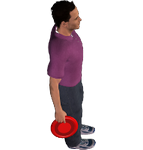
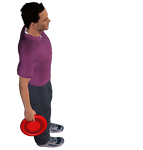
-ok last shot  rif. GameManager timeUp() -?	aggiungere intelligenza -ok	aggiustare punti -ok	controllare restart ritornando al menù (problema va troppo veloce) -?	modificare immagine lancio 	controllata generale

diff --git a/src/it/unical/mat/igpe/graphics/ImageProvider.java b/src/it/unical/mat/igpe/graphics/ImageProvider.java
@@ -52,7 +52,7 @@ public class ImageProvider {
 	private  Image[] myPlayerUpLeft = new Image[4];
 	private  Image[] myPlayerDownRight = new Image[4];
 	private  Image[] myPlayerDownLeft = new Image[4];
-	private  Image[] myPlayerShot = new Image[4];
+	private  Image[] myPlayerShot = new Image[15];/////////////////////////////////////////////////////////
 	private  Image myPlayerRightMotionLess;
 	private  Image myPlayerLeftMotionLess;
 	
@@ -460,10 +460,26 @@ public class ImageProvider {
     	  comPlayerUpLeft[3] = tk.getImage(comPlayerUpLeftPath+"upLeft_13.png");
     	  
       	//shot image
+//    	  myPlayerShot[0] = tk.getImage(myPlayerShotPath+"shot_0001.png");
+//    	  myPlayerShot[1] = tk.getImage(myPlayerShotPath+"shot_0009.png");
+//    	  myPlayerShot[2] = tk.getImage(myPlayerShotPath+"shot_0017.png");
+//    	  myPlayerShot[3] = tk.getImage(myPlayerShotPath+"shot_0025.png");
     	  myPlayerShot[0] = tk.getImage(myPlayerShotPath+"shot_0001.png");
-    	  myPlayerShot[1] = tk.getImage(myPlayerShotPath+"shot_0009.png");
-    	  myPlayerShot[2] = tk.getImage(myPlayerShotPath+"shot_0017.png");
-    	  myPlayerShot[3] = tk.getImage(myPlayerShotPath+"shot_0025.png");
+    	  myPlayerShot[1] = tk.getImage(myPlayerShotPath+"shot_0003.png");
+    	  myPlayerShot[2] = tk.getImage(myPlayerShotPath+"shot_0005.png");
+    	  myPlayerShot[3] = tk.getImage(myPlayerShotPath+"shot_0007.png");
+    	  myPlayerShot[4] = tk.getImage(myPlayerShotPath+"shot_0009.png");
+    	  myPlayerShot[5] = tk.getImage(myPlayerShotPath+"shot_0011.png");
+    	  myPlayerShot[6] = tk.getImage(myPlayerShotPath+"shot_0013.png");
+    	  myPlayerShot[7] = tk.getImage(myPlayerShotPath+"shot_0015.png");
+    	  myPlayerShot[8] = tk.getImage(myPlayerShotPath+"shot_0017.png");
+    	  myPlayerShot[9] = tk.getImage(myPlayerShotPath+"shot_0019.png");
+    	  myPlayerShot[10] = tk.getImage(myPlayerShotPath+"shot_0021.png");
+    	  myPlayerShot[11] = tk.getImage(myPlayerShotPath+"shot_0023.png");
+    	  myPlayerShot[12] = tk.getImage(myPlayerShotPath+"shot_0025.png");
+    	  myPlayerShot[13] = tk.getImage(myPlayerShotPath+"shot_0027.png");
+    	  myPlayerShot[14] = tk.getImage(myPlayerShotPath+"shot_0029.png");
+    	  
     	  comPlayerShot[0] = tk.getImage(comPlayerShotPath+"shot_0001.png");
     	  comPlayerShot[1] = tk.getImage(comPlayerShotPath+"shot_0009.png");
     	  comPlayerShot[2] = tk.getImage(comPlayerShotPath+"shot_0017.png");
@@ -926,10 +942,26 @@ public class ImageProvider {
 	  	  comPlayerUpLeft[3] = tk.getImage(comPlayerUpLeftPath+"upLeft_13.png");
 	  	  
 	    	//shot image
-	  	  myPlayerShot[0] = tk.getImage(myPlayerShotPath+"shot_0001.png");
-	  	  myPlayerShot[1] = tk.getImage(myPlayerShotPath+"shot_0009.png");
-	  	  myPlayerShot[2] = tk.getImage(myPlayerShotPath+"shot_0017.png");
-	  	  myPlayerShot[3] = tk.getImage(myPlayerShotPath+"shot_0025.png");
+//	  	  myPlayerShot[0] = tk.getImage(myPlayerShotPath+"shot_0001.png");
+//	  	  myPlayerShot[1] = tk.getImage(myPlayerShotPath+"shot_0009.png");
+//	  	  myPlayerShot[2] = tk.getImage(myPlayerShotPath+"shot_0017.png");
+//	  	  myPlayerShot[3] = tk.getImage(myPlayerShotPath+"shot_0025.png");
+    	  myPlayerShot[0] = tk.getImage(myPlayerShotPath+"shot_0001.png");
+    	  myPlayerShot[1] = tk.getImage(myPlayerShotPath+"shot_0003.png");
+    	  myPlayerShot[2] = tk.getImage(myPlayerShotPath+"shot_0005.png");
+    	  myPlayerShot[3] = tk.getImage(myPlayerShotPath+"shot_0007.png");
+    	  myPlayerShot[4] = tk.getImage(myPlayerShotPath+"shot_0009.png");
+    	  myPlayerShot[5] = tk.getImage(myPlayerShotPath+"shot_0011.png");
+    	  myPlayerShot[6] = tk.getImage(myPlayerShotPath+"shot_0013.png");
+    	  myPlayerShot[7] = tk.getImage(myPlayerShotPath+"shot_0015.png");
+    	  myPlayerShot[8] = tk.getImage(myPlayerShotPath+"shot_0017.png");
+    	  myPlayerShot[9] = tk.getImage(myPlayerShotPath+"shot_0019.png");
+    	  myPlayerShot[10] = tk.getImage(myPlayerShotPath+"shot_0021.png");
+    	  myPlayerShot[11] = tk.getImage(myPlayerShotPath+"shot_0023.png");
+    	  myPlayerShot[12] = tk.getImage(myPlayerShotPath+"shot_0025.png");
+    	  myPlayerShot[13] = tk.getImage(myPlayerShotPath+"shot_0027.png");
+    	  myPlayerShot[14] = tk.getImage(myPlayerShotPath+"shot_0029.png");
+    	  
 	  	  comPlayerShot[0] = tk.getImage(comPlayerShotPath+"shot_0001.png");
 	  	  comPlayerShot[1] = tk.getImage(comPlayerShotPath+"shot_0009.png");
 	  	  comPlayerShot[2] = tk.getImage(comPlayerShotPath+"shot_0017.png");
@@ -1355,7 +1387,7 @@ public class ImageProvider {
 	}
 
 	public Image getMyPlayerShot(int index) {
-		if (index>3)
+		if (index>=15)
 			return myPlayerShot[0];
 		return myPlayerShot[index];
 	}

diff --git a/src/it/unical/mat/igpe/graphics/CenterGamePanel.java b/src/it/unical/mat/igpe/graphics/CenterGamePanel.java
@@ -83,6 +83,7 @@ public class CenterGamePanel extends JPanel {
 	        {
 				while(!isEnd())
 				{
+//					System.out.println("CGP");
 					if(!isGameFinished())
 					{
 						if(GameManager.isPause()==false)
@@ -224,8 +225,8 @@ public class CenterGamePanel extends JPanel {
 		        				gameManager.getDisc().setDirection(-1,0.6);
 		        			}
 		        			lastShotForTimeUp=true;
-		        			while(gameManager.timeUp()==true && endRound==false && GameManager.isPause()==false
-		        					&& (GameManager.getWorld().getMyPlayerScore()==GameManager.getWorld().getComScore()) )
+		        			while(endRound==false && GameManager.isPause()==false
+		        					&& (GameManager.getWorld().getMyPlayerScore()==GameManager.getWorld().getComScore()) && !isEnd())
 		        			{
 		        				GameManager.setEqualize(true);
 		        				
@@ -678,6 +679,8 @@ public class CenterGamePanel extends JPanel {
 
 			private int getNumberOfImageToActivate() {
 				int positionHit = GameManager.getWorld().getWallCom().getStrickenWall(getyDisc());
+//				System.out.println(getyDisc());
+//				System.out.println(positionHit);
 				if (CenterGamePanel.getRepainterThread().isMyPlayerGoal())
 				{
 					switch (positionHit) {
@@ -1190,9 +1193,9 @@ public class CenterGamePanel extends JPanel {
 //		
 //		g.drawLine((int)(width*0.69), 0, (int)(width*0.69), getHeight());
 		
-//		g.drawRect(gameManager.getComPlayer().getX(),gameManager.getComPlayer().getY(), (int)(Player.getWithimage()), (int)(Player.getHeightimage()));
+//		g.drawRect((int)gameManager.getComPlayer().getX(),(int)gameManager.getComPlayer().getY(), (int)(Player.getWithimage()), (int)(Player.getHeightimage()));
 //		
-		g.drawRect((int)gameManager.getMyPlayer().getX(),(int)gameManager.getMyPlayer().getY() ,Player.getWithimage(),Player.getHeightimage());
+//		g.drawRect((int)gameManager.getMyPlayer().getX(),(int)gameManager.getMyPlayer().getY() ,Player.getWithimage(),Player.getHeightimage());
 //
 //		g.drawRect(gameManager.getDisc().getX()+((int)(Disc.getWithimage()*0.25)),gameManager.getDisc().getY()+((int)(Disc.getHeightimage()*0.25)) ,(int)(Disc.getWithimage()*0.6), (int)(Disc.getHeightimage()*0.6));
 		

diff --git a/src/it/unical/mat/igpe/graphics/SelectPlayerPanel.java b/src/it/unical/mat/igpe/graphics/SelectPlayerPanel.java
@@ -14,14 +14,14 @@ public class SelectPlayerPanel extends JPanel {
 	 */
 	private static final long serialVersionUID = 1L;
 	
-	private static ImageProvider imageProvider = new ImageProvider();
-	private static Image background = imageProvider.getSelectPlayerPanelBackground();
-	Image myPlayerSelected = imageProvider.getMyPlayerSelected();
-	Image comPlayerSelected = imageProvider.getComPlayerSelected();
-	Image players = imageProvider.getPlayersBarName();
-	Image done = imageProvider.getDone();
-	Image back = imageProvider.getBack();
-	Image selected = imageProvider.getSelectedMyPlayer();
+	private static ImageProvider imageProvider;
+	private static Image background;
+	Image myPlayerSelected;
+	Image comPlayerSelected;
+	Image players;
+	Image done;
+	Image back;
+	Image selected;
 	int select = 0;
 	int myPlayer = 0;
 	int comPlayer = 0;
@@ -30,8 +30,17 @@ public class SelectPlayerPanel extends JPanel {
     double width = screen.getWidth();
     double height = screen.getHeight()*0.75;
 	
-	public SelectPlayerPanel(final MainFrame mainFrame)
+	public SelectPlayerPanel(final MainFrame mainFrame,final ImageProvider ip)
 	{
+		imageProvider = ip;
+		background = imageProvider.getSelectPlayerPanelBackground();
+		myPlayerSelected = imageProvider.getMyPlayerSelected();
+		comPlayerSelected = imageProvider.getComPlayerSelected();
+		players = imageProvider.getPlayersBarName();
+		done = imageProvider.getDone();
+		back = imageProvider.getBack();
+		selected = imageProvider.getSelectedMyPlayer();
+		
 		this.addMouseListener(new MouseListener() {
 			
 			@Override
@@ -210,7 +219,6 @@ public class SelectPlayerPanel extends JPanel {
 	    g.drawImage(players, 0, 0, getWidth(),getHeight(),this);
 	    g.drawImage(done, 0, 0, getWidth(),getHeight(),this);
 	    g.drawImage(back, 0, 0, getWidth(),getHeight(),this);
-	    
 	    
 	}
 

diff --git a/src/it/unical/mat/igpe/ultimaDisc/iaComPlayer/IaComPlayer.java b/src/it/unical/mat/igpe/ultimaDisc/iaComPlayer/IaComPlayer.java
@@ -207,31 +207,36 @@ public class IaComPlayer {
 //    			int xPlayer = gameManager.getMyPlayer().getX();
 		int yPlayer = (int)gameManager.getMyPlayer().getY();
 		
+		// LA y VARIA TRA 0.1 E 0.5
+		
 		//EASY
+		// y impostata a 0.2 fissa
 		if(GameManager.getDifficultyLevel() == 0){
 			if(yPlayer>(startPositionPlayerY+10)){
-				randomY=0.3;
+				randomY=0.2;
 			}
 			else if (yPlayer<=(startPositionPlayerY+10)){
-				randomY=-0.3;
+				randomY=-0.2;
 			}
 		}
 		//MEDIUM
+		// y varia tra 0.1 e 0.4 presi random
 		else if(GameManager.getDifficultyLevel() == 1){
 			if(yPlayer>(startPositionPlayerY+10)){
-				randomY = 4+new Random().nextInt(6);
+				randomY = 0.1 + (0.4 - 0.1) * new Random().nextDouble();
 			}
 			else if (yPlayer<=(startPositionPlayerY+10)){
-				randomY = -10+new Random().nextInt(9);
+				randomY = - 0.1 + (0.4 - 0.1) * new Random().nextDouble();
 			}
 		}
 		//HARD
+		// y varia tra 0.3 e 0.5 presi random
 		else if(GameManager.getDifficultyLevel() == 2){
 			if(yPlayer>(startPositionPlayerY+10)){
-				randomY = -10+new Random().nextInt(9);
+				randomY = -0.3 + (0.51 - 0.3) * new Random().nextDouble();
 			}
 			else if (yPlayer<=(startPositionPlayerY+10)){
-				randomY = 4+new Random().nextInt(6);
+				randomY = 0.3 + (0.51 - 0.3) * new Random().nextDouble();
 			}
 		}
 		

diff --git a/src/it/unical/mat/igpe/ultimateDisc/world/WorldManager.java b/src/it/unical/mat/igpe/ultimateDisc/world/WorldManager.java
@@ -34,18 +34,18 @@ public class WorldManager {
 			String r = "";
 			String[] n = s.split(r);
 			
-			int size = (n.length-1);
+			int size = (n.length);
 			Wall wallPlayer = new Wall(size);
 			Wall wallCom = new Wall(size);
 			
 			Dimension screenSize = Toolkit.getDefaultToolkit().getScreenSize();
 			double height = (screenSize.getHeight()*0.75)/5;
 			
-			for (int i = 1; i < n.length; i++) {
-//				System.out.println("height:"+height+" i:"+i+" ="+height*(i-1));
+			for (int i = 0; i < n.length; i++) {
 				Integer value = Integer.parseInt(n[i]);
+//				System.out.println("height:"+height+" i:"+i+" ="+height*(i)+" value:"+value);
 				SmallWall smallWall = new SmallWall(value);
-				smallWall.setY_position(height*(i-1));
+				smallWall.setY_position(height*(i));
 				wallPlayer.addSmallWall(smallWall);
 				wallCom.addSmallWall(smallWall);
 			}

diff --git a/src/it/unical/mat/igpe/graphics/MainFrame.java b/src/it/unical/mat/igpe/graphics/MainFrame.java
@@ -53,6 +53,10 @@ public class MainFrame extends JFrame {
 	
 	public MainFrame(GameManager gameManager,ImageProvider imageProvider)
 	{
+		//////////////////////////////////////////////////////////////////////
+		 AudioProvider.clickAudio();
+    	 AudioProvider.audioOff();
+    	//////////////////////////////////////////////////////////////////////
 		AudioProvider.musicMainMenu();
 		
 		this.imageProvider=imageProvider;
@@ -136,7 +140,7 @@ public class MainFrame extends JFrame {
 
 	public void goToSelectPlayerPanel()
 	{
-		selectPlayerPanel = new SelectPlayerPanel(this);
+		selectPlayerPanel = new SelectPlayerPanel(this,this.imageProvider);
 		this.switchTo(selectPlayerPanel);
 		AudioProvider.stopMusicMainMenu();
 		AudioProvider.musicChooser();

diff --git a/src/it/unical/mat/igpe/graphics/Frisbee.java b/src/it/unical/mat/igpe/graphics/Frisbee.java
@@ -23,7 +23,8 @@ public class Frisbee extends Thread {
 		{
 			if(!CenterGamePanel.repainterThread.isGameFinished())
 			{
-				while(gameManager.timeUp()==false && CenterGamePanel.repainterThread.isFinishMatch()==false)
+				while(gameManager.timeUp()==false && CenterGamePanel.repainterThread.isFinishMatch()==false 
+						&& !CenterGamePanel.repainterThread.isEnd())
 				{
 					if(GameManager.isPause()==false && !GameManager.isStop())
 					{
@@ -38,7 +39,7 @@ public class Frisbee extends Thread {
 						}
 						if (CenterGamePanel.repainterThread.isStartGame()==false)
 							gameManager.getDisc().update();
-						System.out.println("F");
+						//System.out.println("F");
 					}
 				}
 			}

diff --git a/src/it/unical/mat/igpe/graphics/KeyProcessor.java b/src/it/unical/mat/igpe/graphics/KeyProcessor.java
@@ -91,7 +91,7 @@ class KeyProcessor extends javax.swing.Timer {
             	else if(gameManager.getDisc().isAvailableForMyPlayer()==true && GameManager.isPause()==false){
  
             		CenterGamePanel.frisbeeImage = null;
-            		CenterGamePanel.myPlayerImage = CenterGamePanel.imageProvider.getMyPlayerShot(14);
+            		CenterGamePanel.myPlayerImage = CenterGamePanel.imageProvider.getMyPlayerShot(0);
             		
             		gameManager.getDisc().setDirection(1, 0);
 

diff --git a/src/it/unical/mat/igpe/graphics/Shot.java b/src/it/unical/mat/igpe/graphics/Shot.java
@@ -5,12 +5,12 @@ public class Shot extends Thread {
 	public void run()
 	{
 		int count = 0;
-		while(count < 4)
+		while(count < 15)
 		{
 			CenterGamePanel.myPlayerImage = CenterGamePanel.imageProvider.getMyPlayerShot(count);
 			count++;
 			try {
-				sleep(70);
+				sleep(25);
 			} catch (InterruptedException e) {
 				// TODO Auto-generated catch block
 				e.printStackTrace();

diff --git a/src/it/unical/mat/igpe/graphics/SouthGamePanel.java b/src/it/unical/mat/igpe/graphics/SouthGamePanel.java
@@ -43,7 +43,7 @@ public class SouthGamePanel extends JPanel {
 	        {
 				while(!CenterGamePanel.repainterThread.end)
 				{
-					//System.out.println("SGP");
+//					System.out.println("SGP");
 					if(GameManager.getWorld().getRoundMyPlayer()==1)
 						frisbeeRound1 = imageProvider.getFrisbeeRound2();
 					if(GameManager.getWorld().getRoundComPlayer()==1)

diff --git a/src/it/unical/mat/igpe/ultimateDisc/world/WorldImpl.java b/src/it/unical/mat/igpe/ultimateDisc/world/WorldImpl.java
@@ -153,6 +153,8 @@ public class WorldImpl implements World {
 		else if (disc.isMyplayer()==true)
 		{
 			point = this.wallMyPlayer.getValuePoint(y);
+//			System.out.println("w: "+point);
+//			System.out.println("w: "+y);
 			this.currentPoints=point;
 			GameManager.setComPlayerAbility(false);
 			this.myPlayerScore+=point;

diff --git a/src/it/unical/mat/igpe/graphics/NorthGamePanel.java b/src/it/unical/mat/igpe/graphics/NorthGamePanel.java
@@ -33,7 +33,7 @@ public class NorthGamePanel extends JPanel {
 				while(!CenterGamePanel.repainterThread.end)
 	        	{	
 					
-					//System.out.println("NGP");
+//					System.out.println("NGP");
 	        		if(GameManager.isPause()==false){
 	        			if (gameManager.timeUp())
 	        			{
